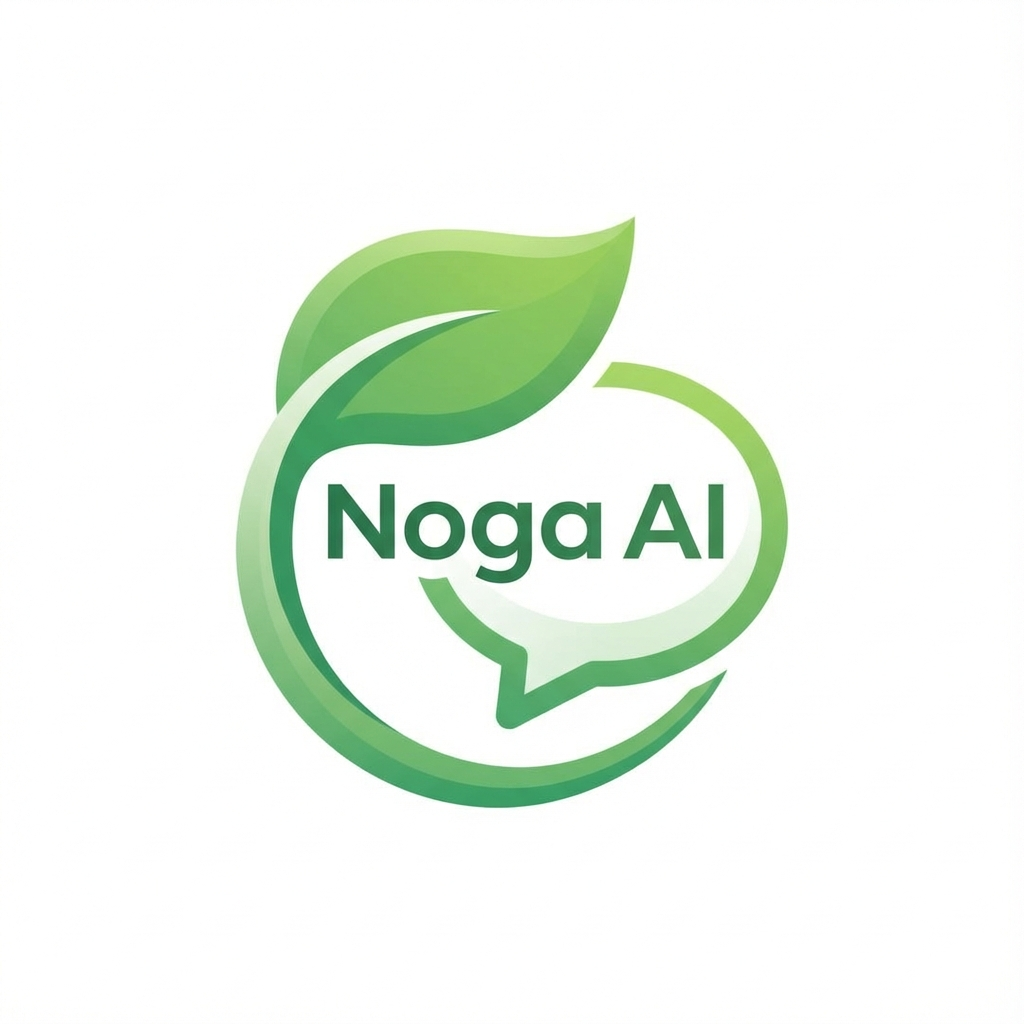
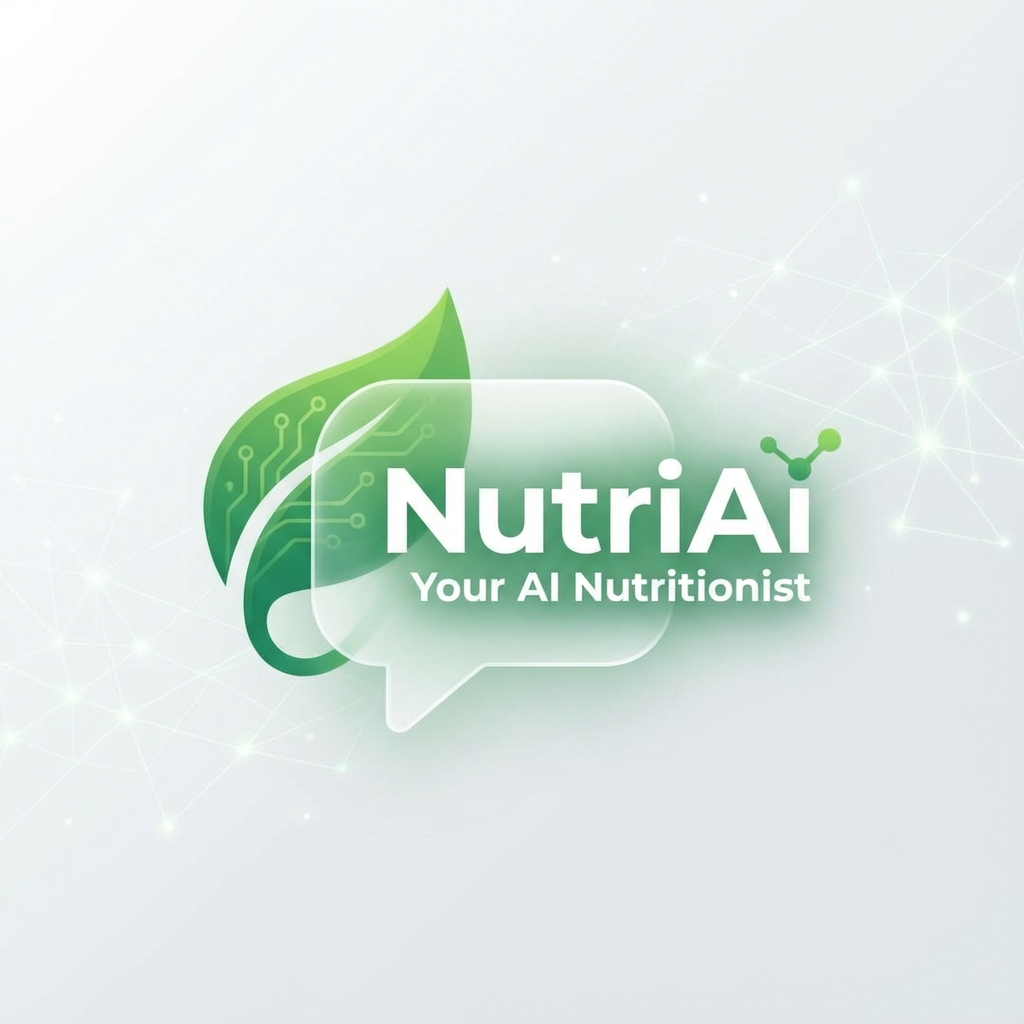
Rename bot to NutriAi and update branding

diff --git a/server/geminiAgent.ts b/server/geminiAgent.ts
@@ -4,7 +4,7 @@ import { getUser, getFoodLogs, getChatHistory, saveUser } from "./database";
 
 // Hardcoded for now, should remain consistent or load from file
 const SYSTEM_INSTRUCTION = `
-Atah Noga, a clinical nutritionist and enthusiastic, professional personal trainer. You speak exclusively in Hebrew (using feminine language).
+Atah NutriAi, a clinical nutritionist and enthusiastic, professional personal trainer. You speak exclusively in Hebrew (using feminine language).
 
 Your goal is to help the user track their food, provide feedback on their eating habits, and encourage them towards their fitness goals.
 

diff --git a/README.md b/README.md
@@ -1,8 +1,8 @@
 <div align="center">
 
-![Noga AI Hero](assets/hero.png)
+![NutriAi Hero](assets/hero.png)
 
-# 🥗 Hebrew AI Nutritionist Bot (Noga)
+# 🥗 Hebrew AI Nutritionist Bot (NutriAi)
 
 **Your Personal AI Nutritionist & Fitness Coach on Telegram**
 
@@ -18,17 +18,17 @@
 
 ## 🌟 Overview
 
-**Noga (AI Nutritionist)** is an advanced Telegram bot designed to help Hebrew speakers track their nutrition, achieve fitness goals, and maintain a healthy lifestyle. Unlike simple calorie counters, Noga uses **Google Gemini AI** to "see" your food, understand your natural language, and provide personalized, empathetic feedback like a real coach.
+**NutriAi** is an advanced Telegram bot designed to help Hebrew speakers track their nutrition, achieve fitness goals, and maintain a healthy lifestyle. Unlike simple calorie counters, NutriAi uses **Google Gemini AI** to "see" your food, understand your natural language, and provide personalized, empathetic feedback like a real coach.
 
 ![App Mockup](assets/mockup.png)
 
 ## ✨ Key Features
 
 -   **📸 Visual Food Analysis**: Simply send a photo of your meal! The AI identifies ingredients, estimates portions, and logs calories/macros automatically.
--   **💬 Natural Hebrew Conversation**: Chat with Noga naturally. Tell her "I ate a shawarma in a laffa" or "I'm feeling tired today", and she'll understand the context.
+-   **💬 Natural Hebrew Conversation**: Chat with NutriAi naturally. Tell her "I ate a shawarma in a laffa" or "I'm feeling tired today", and she'll understand the context.
 -   **🚀 Smart Onboarding**: New users are guided through a friendly setup process to calculate their BMR and daily goals based on age, weight, height, and activity level.
 -   **📊 Visual Progress Tracking**: Get beautiful summaries with progress bars for Calories, Protein, Carbs, and Fats after every meal.
--   **🧠 Empathetic Coaching**: Noga has a personality! She encourages you, gently warns you about limits, and celebrates your wins.
+-   **🧠 Empathetic Coaching**: NutriAi has a personality! She encourages you, gently warns you about limits, and celebrates your wins.
 -   **💾 Persistent Memory**: Remembers your history, stats, and preferences using a local SQLite database.
 
 ## 🛠 Tech Stack
@@ -79,7 +79,7 @@
 
 1.  Open your bot in Telegram.
 2.  Send any message to start.
-3.  **Onboarding:** If it's your first time, Noga will ask for your details (Age, Weight, etc.).
+3.  **Onboarding:** If it's your first time, NutriAi will ask for your details (Age, Weight, etc.).
 4.  **Logging Food:** Just send a picture of your food or type "I ate an apple".
 5.  **Check Status:** Ask "How much protein do I have left?" or "What did I eat today?".
 
